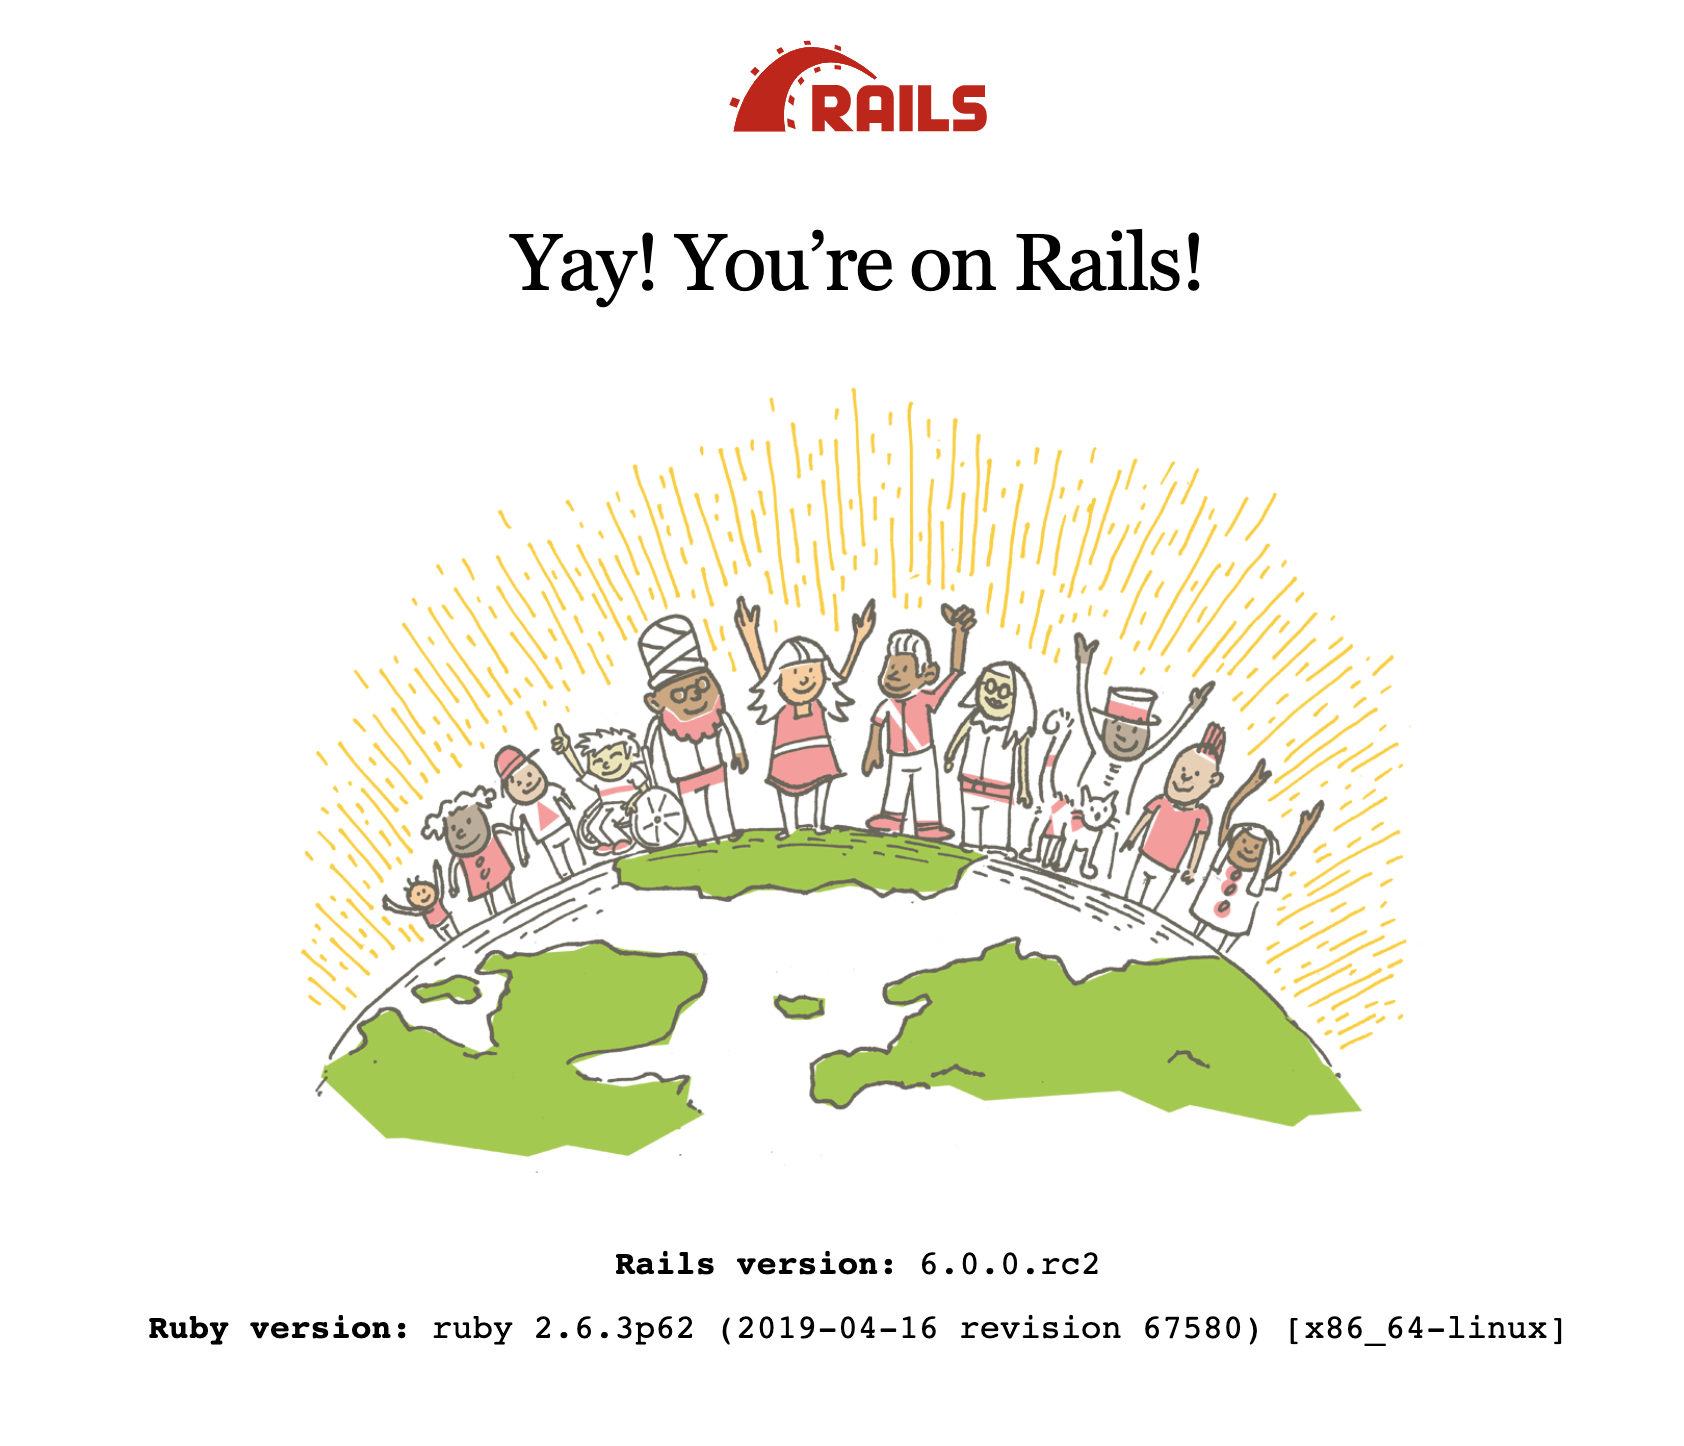
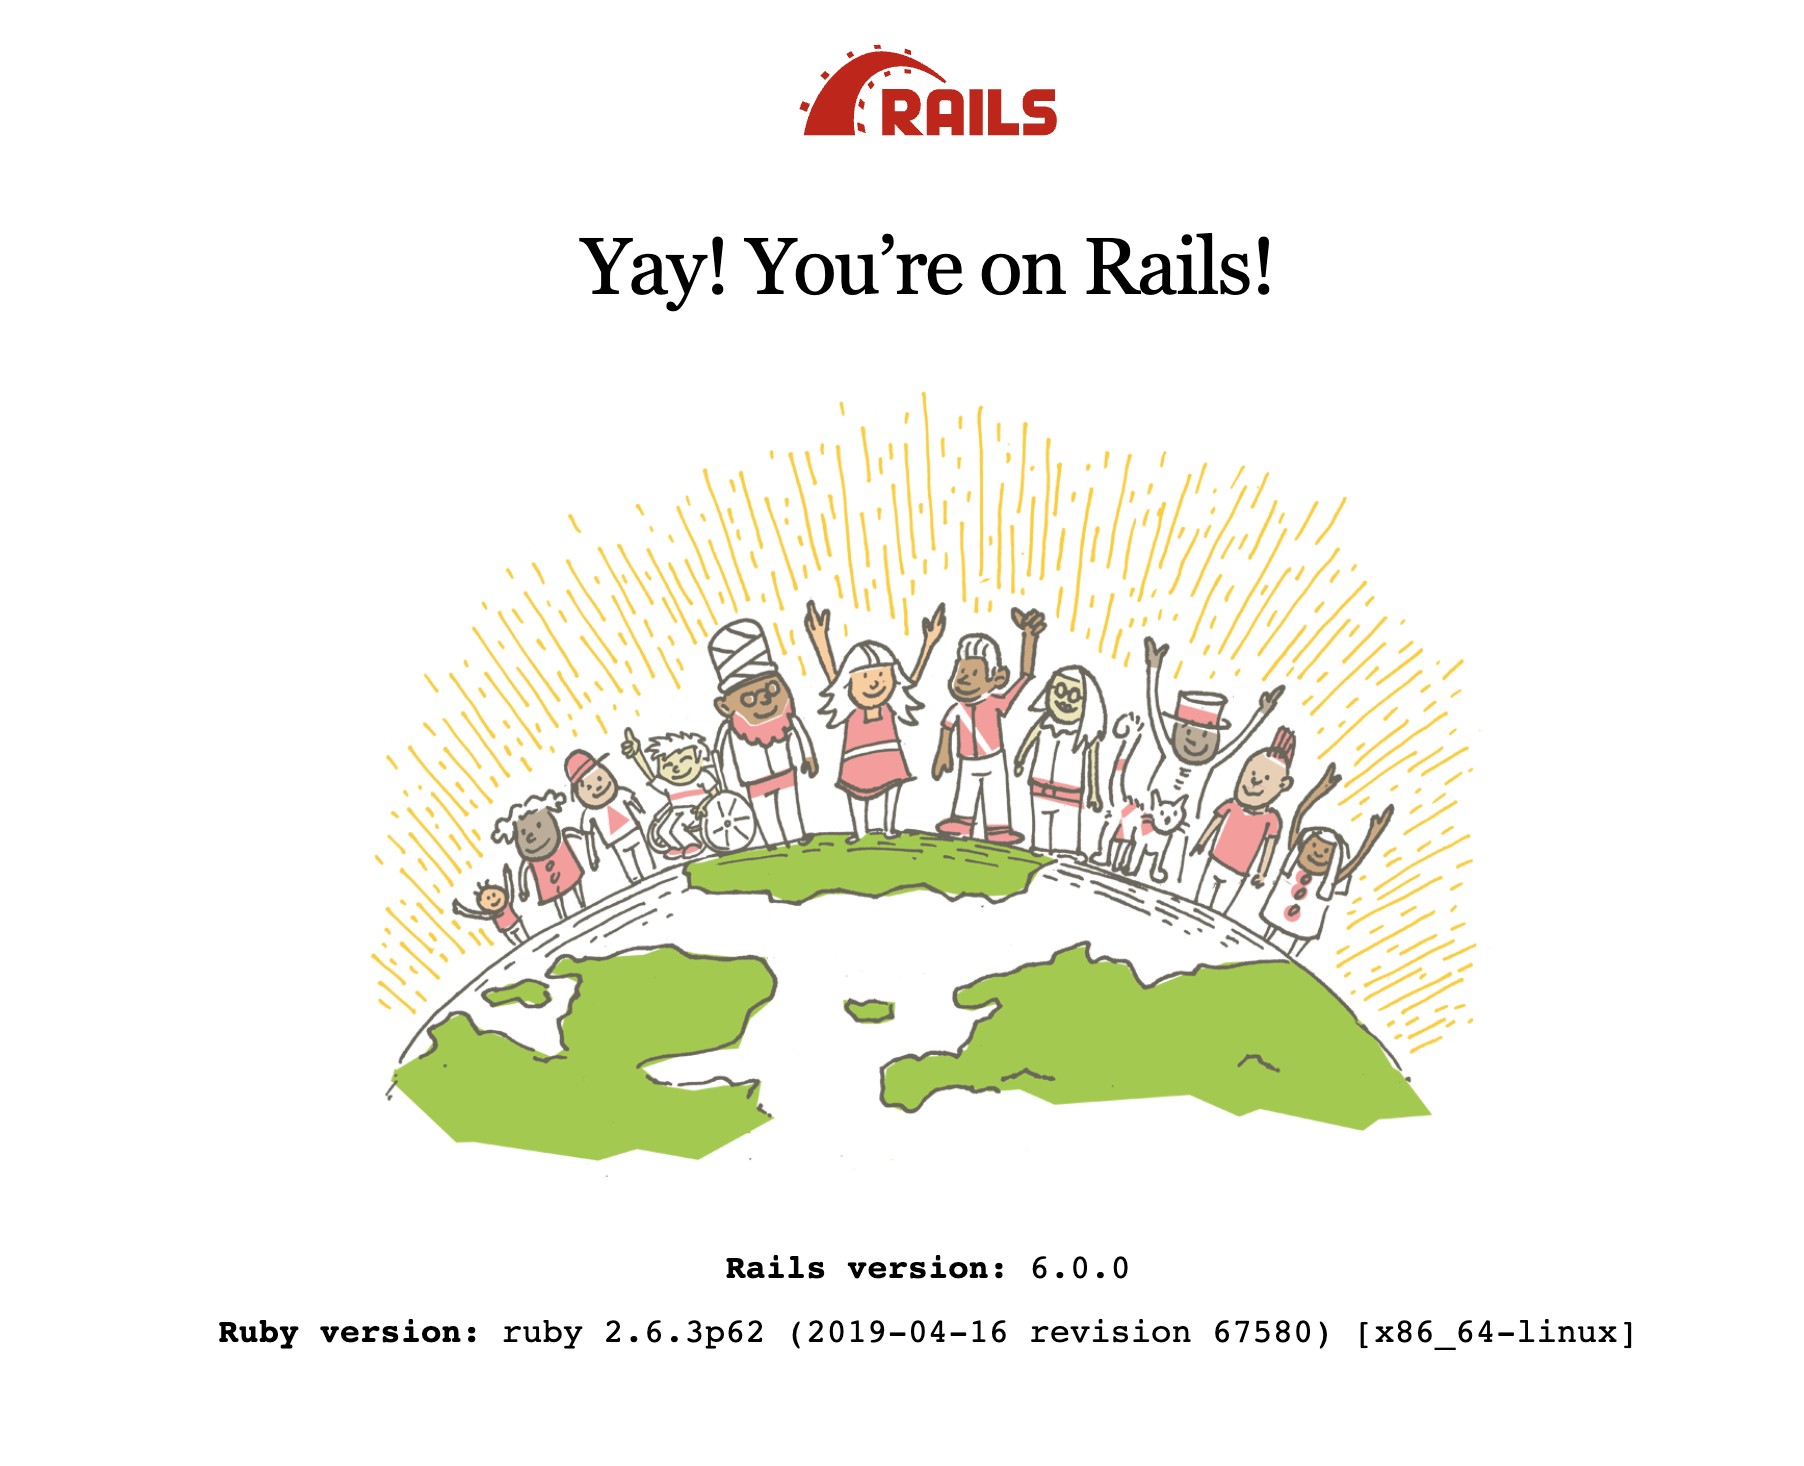
:up: version up to rails 6.0.0 🎉

diff --git a/README.md b/README.md
@@ -18,7 +18,7 @@ Instantly, you can create a rails app.
 ```
 $ mkdir new-app
 $ cd new-app/
-$ git clone git@github.com:nao0515ki/rails-starter-by-docker.git
+$ git clone git@github.com:n350071/rails-starter-by-docker.git
 $ cp -r rails-starter-by-docker/ .
 $ rm screenshot.png
 $ rm -rf .git
@@ -61,7 +61,7 @@ Run `bundle install` to install missing gems.
 
 ### 3. Start your project
 ```
-$ make up
+$ make up-d
 ```
 
 It starts rails and you can check it by `http://localhost:3000`.
